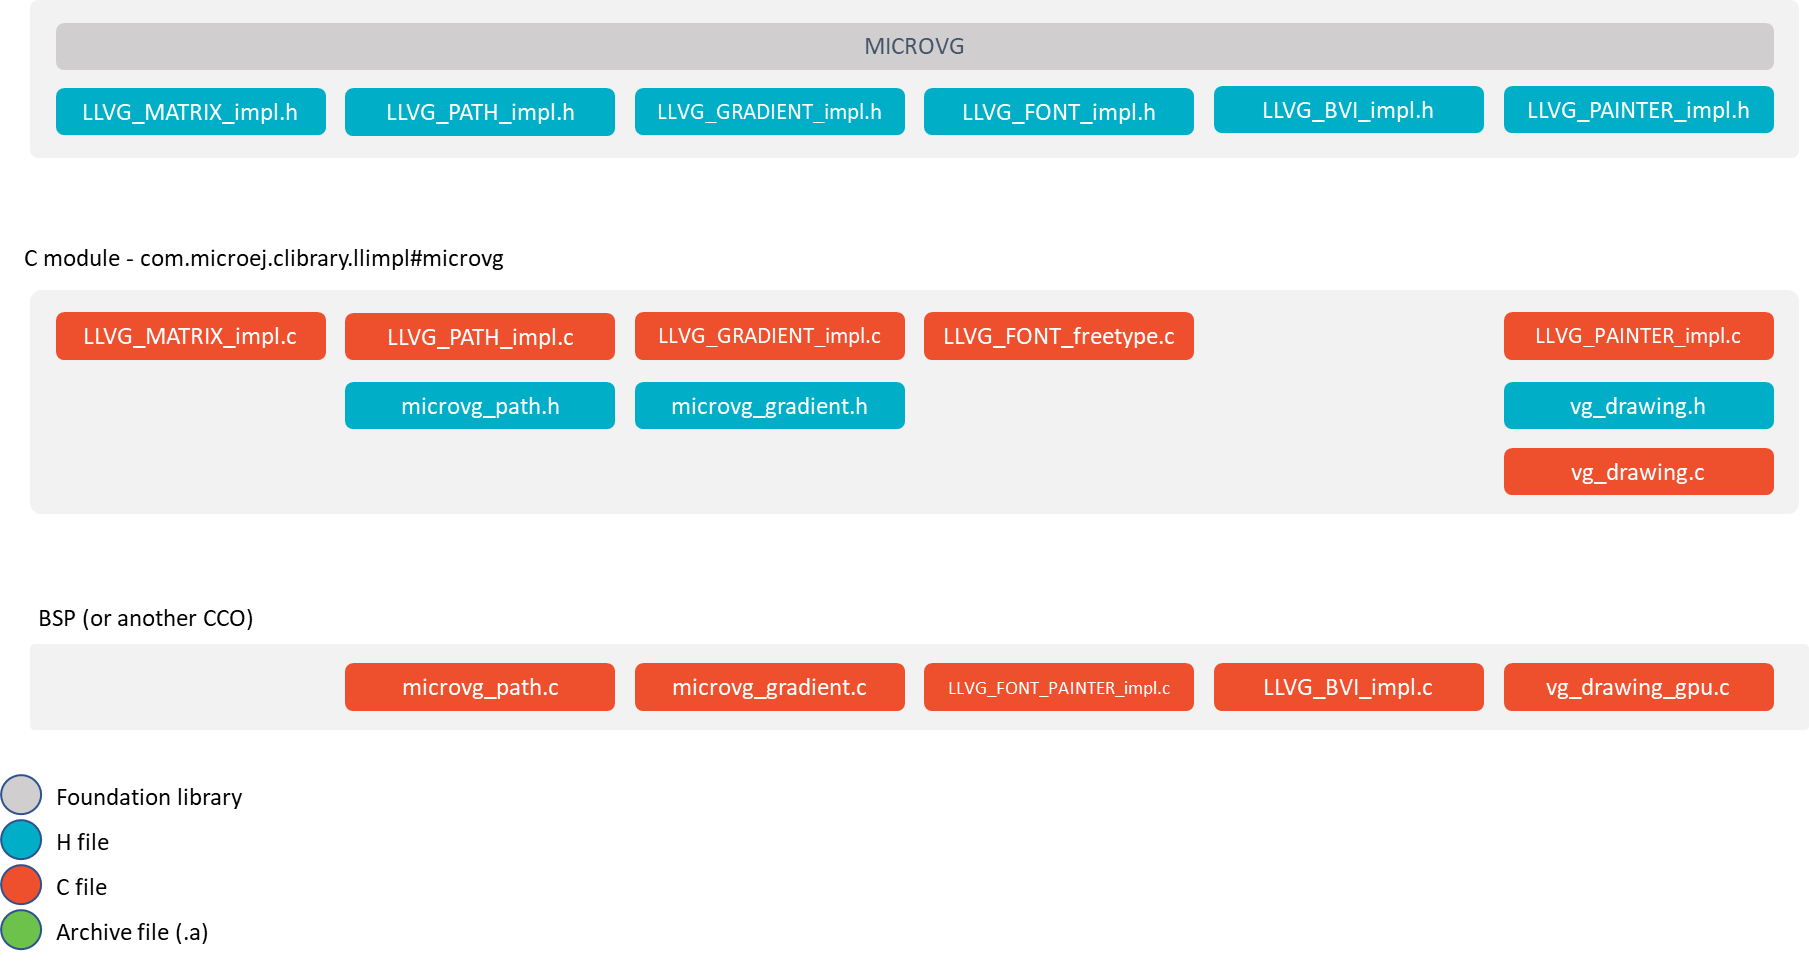
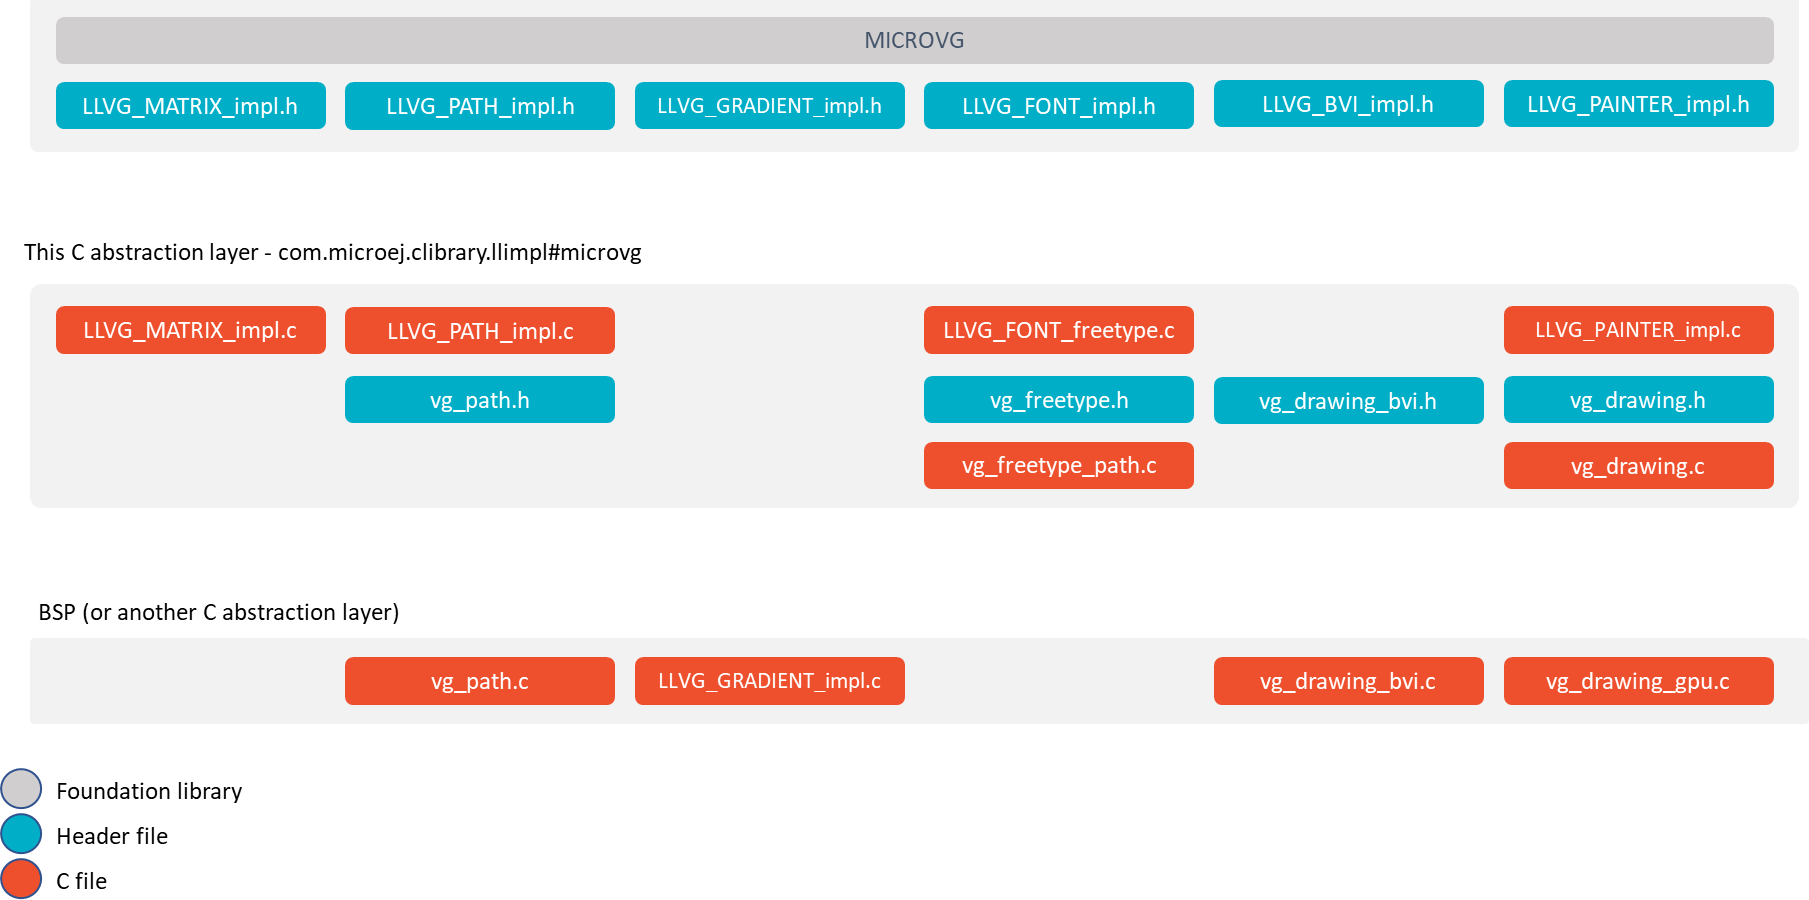
Update the names in vg_llapi_emb.png

diff --git a/VEEPortingGuide/vgLowLevel.rst b/VEEPortingGuide/vgLowLevel.rst
@@ -7,7 +7,7 @@ Abstraction Layer API
 Principle
 =========
 
-The MicroVG implementation for MicroEJ requires an Abstraction Layer implementation. 
+The MicroVG implementation for MicroEJ requires an Abstraction Layer implementation.
 The Abstraction Layer implementation consists of a set of header files to implement in C to target the hardware drivers.
 
 The VG Pack's embedded Front Panel extension implements all MicroVG features for the simulator.
@@ -21,8 +21,6 @@ Embedded VEE Port
    :align: center
 
    MicroVG Embedded Abstraction Layer API
-
-XXX_TODO review the boxes with the latest version of naming convention
 
 The specification of header files names is:
 
@@ -43,13 +41,13 @@ Simulator
 
    MicroVG Simulator Abstraction Layer API
 
-The Simulator's five VG engines are grouped in a :ref:`Front Panel extension <section_ui_simulation>`. 
+The Simulator's five VG engines are grouped in a :ref:`Front Panel extension <section_ui_simulation>`.
 
 This engine provides the compatibility with Vivante VGLite and Think Silicon Nema VG GPUs and it can be extended to fit another GPU.
 
 ..
-   | Copyright 2008-2024, MicroEJ Corp. Content in this space is free 
-   for read and redistribute. Except if otherwise stated, modification 
+   | Copyright 2008-2024, MicroEJ Corp. Content in this space is free
+   for read and redistribute. Except if otherwise stated, modification
    is subject to MicroEJ Corp prior approval.
-   | MicroEJ is a trademark of MicroEJ Corp. All other trademarks and 
+   | MicroEJ is a trademark of MicroEJ Corp. All other trademarks and
    copyrights are the property of their respective owners.
